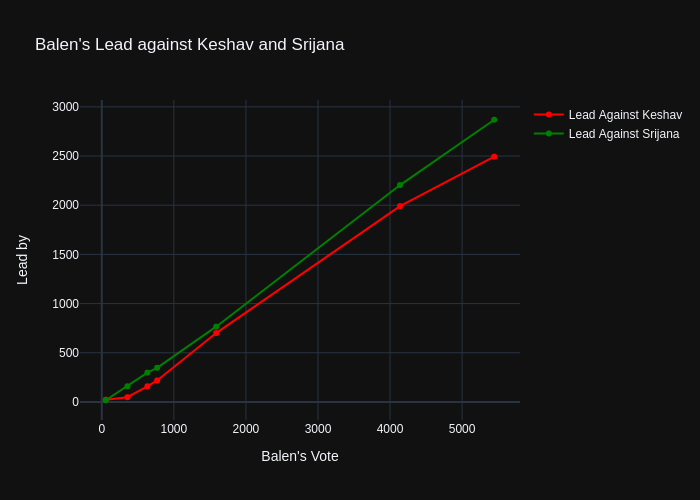
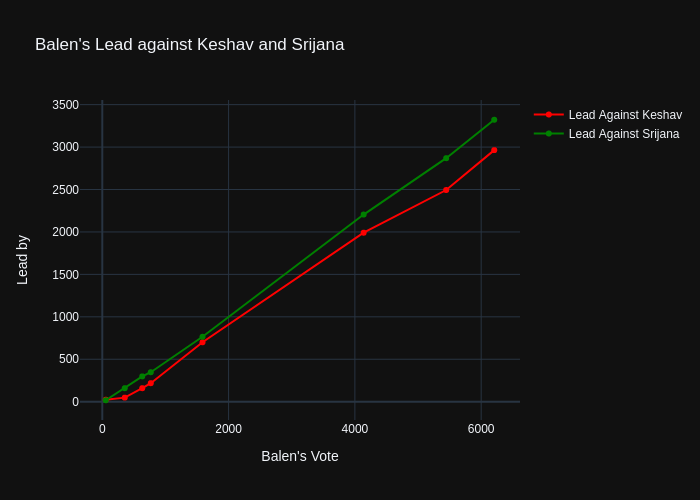
Minor change

diff --git a/README.md b/README.md
@@ -1,4 +1,4 @@
-# Last Update:2nd Jestha @ 5 AM
+## Last Update:2nd Jestha @ 8 AM
 
 ## Balen's Lead against Keshav Sthapit and Srijana Singh
 
